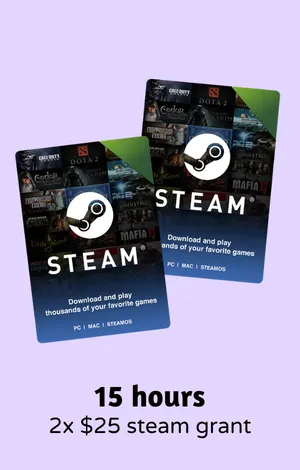
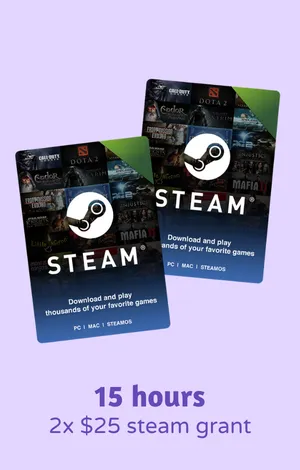
recolored cards

Changed region(s): [[0.27, 0.8043, 0.84, 0.9532], [0.15, 0.8638, 0.24, 0.9234]]

diff --git a/index.html b/index.html
@@ -117,8 +117,8 @@
             <img src="Assets/card1.webp" class="card card1">
             <img src="Assets/card2.webp" class="card card2">
             <img src="Assets/card3.webp" class="card card3">
-            <img src="Assets/card3.webp" class="card card4">
-            <img src="Assets/card3.webp" class="card card5">
+            <img src="Assets/card4.webp" class="card card4">
+            <img src="Assets/card4.webp" class="card card5">
         </div>
         <p>
             *There are 5 tiers of prizes, depending on the <u>combined</u> hours spent by you and your "playdate".

diff --git a/style.css b/style.css
@@ -516,6 +516,7 @@ header {
     -webkit-user-drag: none;
     user-select: none;
 
+    border: 4px solid #6749b7;
     border-radius: 25px;
     width: 14vw;
     margin-left: 5px;
